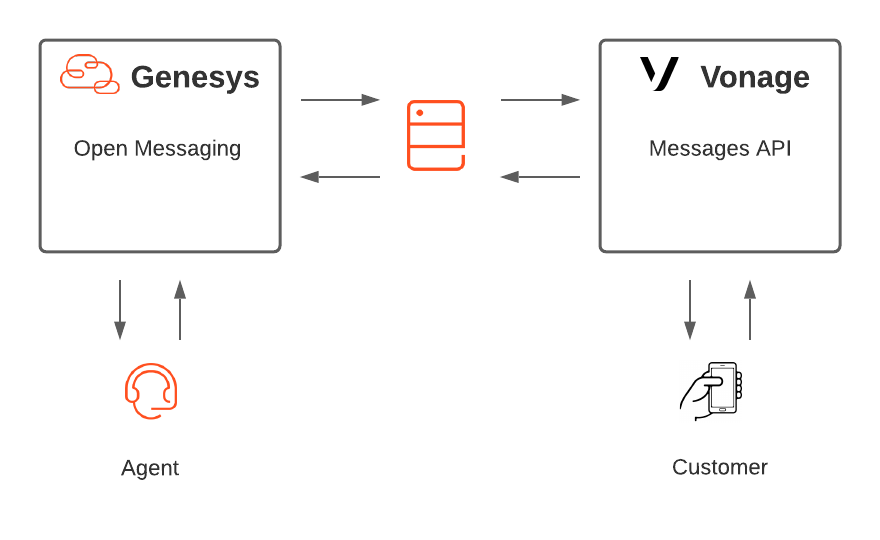
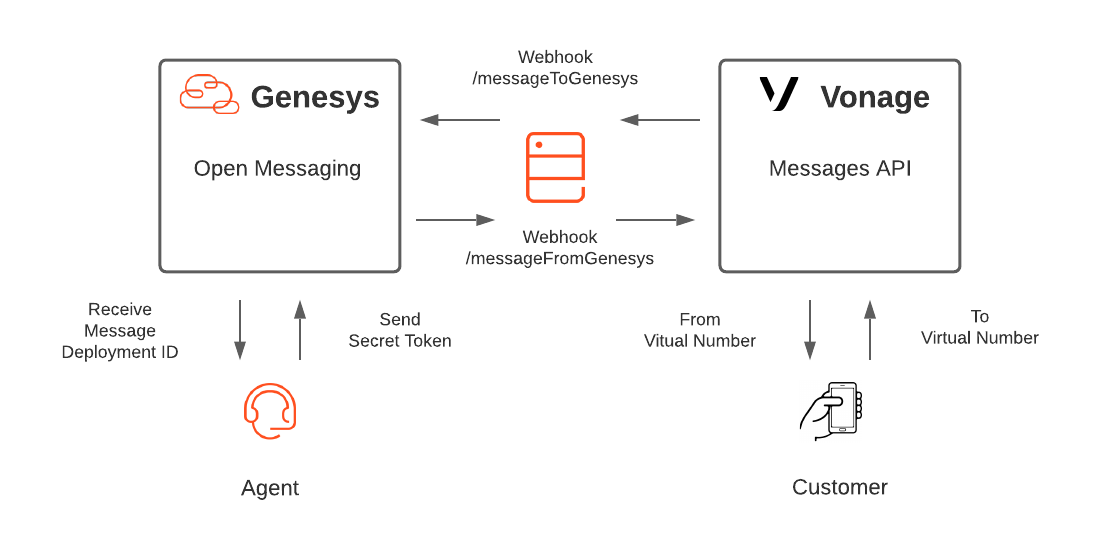
readme updated

diff --git a/server.js b/server.js
@@ -173,7 +173,7 @@ app.post('/messageFromGenesys', (req, res) => {
 app.post('/messageToGenesys', (req, res) => {
   try {
     console.log(`\n🚀 Vonage is sending a message to Genesys`);
-    sendMessageToGenesys(req.body);
+    sendToGenesys(req.body);
   } catch (error) {
     console.log(error);
   }
@@ -183,7 +183,7 @@ app.post('/messageToGenesys', (req, res) => {
 /********************************************************************
  * Implement the code to send a message to Genesys Open Messaging API
  */
-function sendMessageToGenesys(data) {
+function sendToGenesys(data) {
   if (data.message === '') {
     console.log('\nNo message to send');
     return;

diff --git a/README.md b/README.md
@@ -13,21 +13,20 @@ summary: |
 
 - [Solution components](#solution-components 'Goes to the Solutions components section')
 - [Software development kits](#software-development-kits 'Goes to the Software development kits section')
-- [Prerequisite configuration and considerations](#prerequisite-configuration-and-considerations 'Goes to the Prerequisite configuraiton and considerations section')
 - [Prerequisites](#prerequisites 'Goes to the Prerequisites section')
 - [Implementation steps](#implementation-steps 'Goes to the Implementation steps section')
 - [Additional resources](#additional-resources 'Goes to the Additional resources section')
 
 ## Solution components
 
-- **Genesys Cloud Open Messaging platform** -
-- **Vonage Messages API platform**
-- **NodeJS App and Web Server**
+- **Genesys Cloud Open Messaging platform** - Lightweight integration that facilitates messaging with third-party systems and external messaging services.
+- **Vonage Messages API platform** - The Messages API enables you to send messages to customers via their preferred channels (currently Facebook Messenger, WhatsApp, Viber, and SMS/MMS) using a single API.
+- **NodeJS Express Server** - This blueprint includes the Projects GitHub Repository containing a script that will run as the Web Server that handles the incoming and outgoing routes.
 
 ## Software development kits
 
 - **Genesys Cloud Platform API SDK** - This SDK is used for the initial interaction of agent and customer over chat, SMS and email channels.
-- **Vonage Video Server NodeJS SDK** - This SDK is used to generate sessions and tokens.
+- **Vonage NodeJS Server SDK** - This SDK is used to create an instance of the Vonage Messages API by providing Vonage Account and Application Credentials.
 
 ## Prerequisites
 
@@ -40,8 +39,8 @@ summary: |
 ### Genesys Cloud and Vonage account
 
 - A Genesys Cloud license. For more information, see [Genesys Cloud pricing](https://www.genesys.com/pricing 'Opens the Genesys Cloud pricing page') on the Genesys website.
-- (Recommended) The Master Admin role in Genesys Cloud. For more information, see [Roles and permissions overview](https://help.mypurecloud.com/?p=24360 'Opens the Roles and permissions overview article') in the Genesys Cloud Resource Center.
-- Vonage Account
+- **Recommended** The Master Admin role in Genesys Cloud. For more information, see [Roles and permissions overview](https://help.mypurecloud.com/?p=24360 'Opens the Roles and permissions overview article') in the Genesys Cloud Resource Center.
+- Vonage Account. To sign up for a new account, visit [Signup for Vonagage Account](https://dashboard.nexmo.com/sign-up?icid=tryitfree_homepage_nexmodashbdfreetrialsignup_tile&utm_campaign=vonageseo).
 
 ## Implementation steps
 
@@ -65,7 +64,7 @@ summary: |
    mv env-example .env
    ```
 
-2. Use [Ngrok](https://ngrok.com/) to get an External URL to allow Genesys and Vonage APIs to tunnel to your cloned repository. We will use the URL later when setting our Webhooks:
+2. Use [Ngrok](https://ngrok.com/) to get an External URL to allow Genesys and Vonage APIs to tunnel to your cloned repository. E.g. `https://{NGROK-URL}.ngrok.io`. We will use this URL later when setting our Webhooks:
 
    ```js
    ngrok http 3000
@@ -73,13 +72,13 @@ summary: |
 
 ### Vonage Setup
 
-1. The solution requires a Vonage Account and Vonage Virtual Number. If you don't already have an account, you'll need to [sign up](https://dashboard.nexmo.com/sign-up?icid=tryitfree_homepage_nexmodashbdfreetrialsignup_tile&utm_campaign=vonageseo). If you already have a Vonage Account then you can proceed to the [Vonage Dashboard](https://dashboard.nexmo.com).
+1. The solution requires a Vonage Account and Vonage Virtual Number. If you don't already have an account, you'll need to [Signup for Vonage Account](https://dashboard.nexmo.com/sign-up?icid=tryitfree_homepage_nexmodashbdfreetrialsignup_tile&utm_campaign=vonageseo). If you already have a Vonage Account then you can proceed to the [Vonage Dashboard](https://dashboard.nexmo.com).
 
-2. Purchase a Vonage Virutal Number at the [Vonage Dashboard](https://dashboard.nexmo.com/your-numbers). Save that Virtual Number to the `VIRTUAL_NUMBER` variable at the`.env` file.
+2. Purchase a Vonage Virutal Number here at the [Vonage Dashboard](https://dashboard.nexmo.com/your-numbers). Save that Virtual Number to the `VIRTUAL_NUMBER` variable at the`.env` file.
 
-3. Configure Settings for Messages API at the [Vonage Dashboard](https://dashboard.nexmo.com/settings). At SMS Settings, enable Messages API, then Save Settings. Notice the `API key` and `API secret` which you'll need later.
+3. Configure Settings for Messages API here at the [Vonage Dashboard](https://dashboard.nexmo.com/settings). At SMS Settings, enable Messages API, then Save Settings. Notice the `API key` and `API secret`. Save that to the `VONAGE_API_KEY` and `VONAGE_API_SECRET` variable at the`.env` file.
 
-4. Create a Vonage Messages API Application [here](https://dashboard.nexmo.com/applications). Enable Messages and set the webhooks as below, while replacing the `NGROK-URL` with the URL you receieved from Ngrok.
+4. Create a Vonage Messages API Application here at the [Vonage Dashboard](https://dashboard.nexmo.com/applications). Enable Messages and set the webhooks as below, while replacing `NGROK-URL` with the URL you receieved from Ngrok.
 
 Inbound URL
 
@@ -93,35 +92,39 @@ Status URL
 https://{NGROK-URL}.ngrok.io/webhooks/status
 ```
 
-5. While still inside the Application, click "Generate public and private key" and store that in the root directory of your cloned repository. The file should be saved as `private.key`, then Save the Changes.
+5. While still at the Application settings, click `Generate public and private key` and store that in the root directory of your cloned repository. The file needs to be saved as `private.key`, then Save the Changes.
 
-6. Link the Virtual Number to the Application. If not already `linked`, then link the Virtual Number to the Application by enabling the button. The Status should show "Linked to this Application".
+6. Link the Virtual Number to the Application. If not already `linked`, then link the Virtual Number to the Application by enabling the button. The Status should show `Linked to this Application`.
 
 ### Genesys Setup
 
-1.  Add Intergration. Navigate to Genesys Cloud > Admin > Integrations > OAuth. Add Client. You can call the App Name `open-messaging`. Enable `Client Credentials`. Copy and Paste the Client ID to the `GENESYS_CLIENT_ID` variable and the Client Secret to the `GENESYS_CLIENT_SECRET` variable of the `.env` file. Once that's done, save the settings.
+1.  Add Intergration. Navigate to Genesys Cloud > Admin > Integrations > OAuth. Add Client. You can call the App Name `open-messaging`. Enable `Client Credentials`. Copy and Paste the Client ID to the `GENESYS_CLIENT_ID` variable and the Client Secret to the `GENESYS_CLIENT_SECRET` variable at the `.env` file. Once that's done, save the settings.
 
-2.  Set the `GENESYS_ENVIRONMENT` varible inside the `.env` file to the Environment for which you logged into Genesys Cloud. For us, it was `usw2.pure.cloud`. For some it is `api.mypurecloud.com`.
+2.  Set the `GENESYS_ENVIRONMENT` varible inside the `.env` file to the Environment for which you logged into Genesys Pure Cloud. For us, it was `usw2.pure.cloud`. For some it is `api.mypurecloud.com`.
 
-3.  Add Open Messaging Platform. Navigate to Genesys Cloud > Admin > Message > Platforms. Add Platform. For the Name, you can name it `VonageMessaging`. Set the Outbound Notification Webhook URL to below, while replacing the `NGROK-URL` to the URL you received when running the Ngrok command earlier. You can set the Outbound Notification Webhook Signature Secret Token to `This is a Secret`. Then save the settings.
+3.  Add Open Messaging Platform. Navigate to Genesys Cloud > Admin > Message > Platforms. Add Platform. For the Name, you can name it `VonageMessaging`. Set the Outbound Notification Webhook URL to below, while replacing the `NGROK-URL` to the URL you received when running the Ngrok command earlier. You can set the Outbound Notification Webhook Signature Secret Token to `MySecretSignature`. Then save the settings.
 
     ```js
-
     https://{NGROK-URL}.ngrok.io/messageFromGenesys
-
     ```
 
-    **Note** If you don't see the Message option, then you'll need to ask the Organization Administrator to enable this feature.
+    **Note** If you don't see the Message feature, then you'll need to ask the Organization Administrator to enable this feature.
+
+    **Note** The Notification Webhook Signature Secret Token needs to be the same as line 154 of [server.js](./server.js)
+
+    ```js
+    const secretToken = 'MySecretSignature';
+    ```
 
 4.  Configure Architect Flow for Inbound Message. Navigate to Genesys Cloud > Admin > Architect. Select `Flows: Inbound Message` from the dropdown list. Click `+ Add`, then you can name it `VonageMessage`.
 
-5.  Configure Routing. Navigate to Genesys Cloud > Admin > Routing > Message Routing. Add via `+` icon. You can name both the Inbound Message Flows and Inbound Address to `VonageMessage` as you did with the Architect Flow above. You can name the Description `Inbound Vonage OpenMessaging`. Set the Intial State to `Transfer to ACD`. You can save the name as `Transfer to ACD` and Queue to `Vonage`. Make sure to Add ACD Skill. Save the settings.
+5.  Configure Routing. Navigate to Genesys Cloud > Admin > Routing > Message Routing. Add via `+` icon. You can name Inbound Message Flows `VonageMessage` as you did with the Architect Flow above and Inbound Address to `VonageMessaging`. You can name the Description `Inbound Vonage OpenMessaging`. Set the Intial State to `Transfer to ACD`. You can save the name as `Transfer to ACD` and Queue to `Vonage`. Make sure to Add ACD Skill. Save the settings.
 
-6.  Get the Genesys Message Deployment ID. To retrieve this, we'll use [Postman](https://www.postman.com/) and one of the GET Request from the Genesys Postman Collection. Some instructions can be found in the article [Use Postman to test API calls](https://developer.genesys.cloud/api/rest/postman/). In short, we import the Genesys Postman Collection, set it's Authorization as instructed, along with Variables. Next, we navigate to PureCloud Platform API > api > v2 > conversations > messaging > integrations > open > `Get a list of Open messaging integrations` and execute the request. The Deployement ID will be in the Response within the array `entities[0].id`. Once we have that, we can set the `GENESYS_MESSAGE_DEPLOYMENT_ID` variable in the `.env` file.
+6.  Get the Genesys Message Deployment ID. To retrieve this, we'll use [Postman](https://www.postman.com/) and one of the GET Request from the Genesys Postman Collection. Some instructions can be found in the article [Use Postman to test API calls](https://developer.genesys.cloud/api/rest/postman/). In short, we import the Genesys Postman Collection, set it's Authorization as instructed, along with Variables. Next, inside Postman, we navigate to PureCloud Platform API > api > v2 > conversations > messaging > integrations > open > `Get a list of Open messaging integrations` and execute the request. The Deployement ID will be in the Response within the array `entities[0].id`. Once we have that, we can set the `GENESYS_MESSAGE_DEPLOYMENT_ID` variable in the `.env` file.
 
-```js
-https://api.{{environment}}/api/v2/conversations/messaging/integrations/open
-```
+    ```js
+    https://api.{{environment}}/api/v2/conversations/messaging/integrations/open
+    ```
 
 ### Start Express Server
 
@@ -141,7 +144,7 @@ https://api.{{environment}}/api/v2/conversations/messaging/integrations/open
 
 1. Login into Genesys Cloud, at Interactions put the Agent into Queue.
 
-2. To confirm the Agent can receive and send SMS to multiple number via using one Vonage Virtual Number, from you phone, send an SMS to the Virtual Number. The Agent should then see an incoming call, answer the Incoming SMS and Respond back. The logs in the terminal should confirm the start and success of incoming and outgoing traffic via Webhooks.
+2. To confirm the Agent can receive and send SMS to multiple numbers via using one Vonage Virtual Number, from you phone, you will send an SMS to the Virtual Number. The Agent should then see an incoming call. Answer the Incoming Call, which is an SMS, then respond back. In the terminal, you will see console logs of the start and success of incoming and outgoing traffic via Webhooks.
 
 ## Additional resources
 
